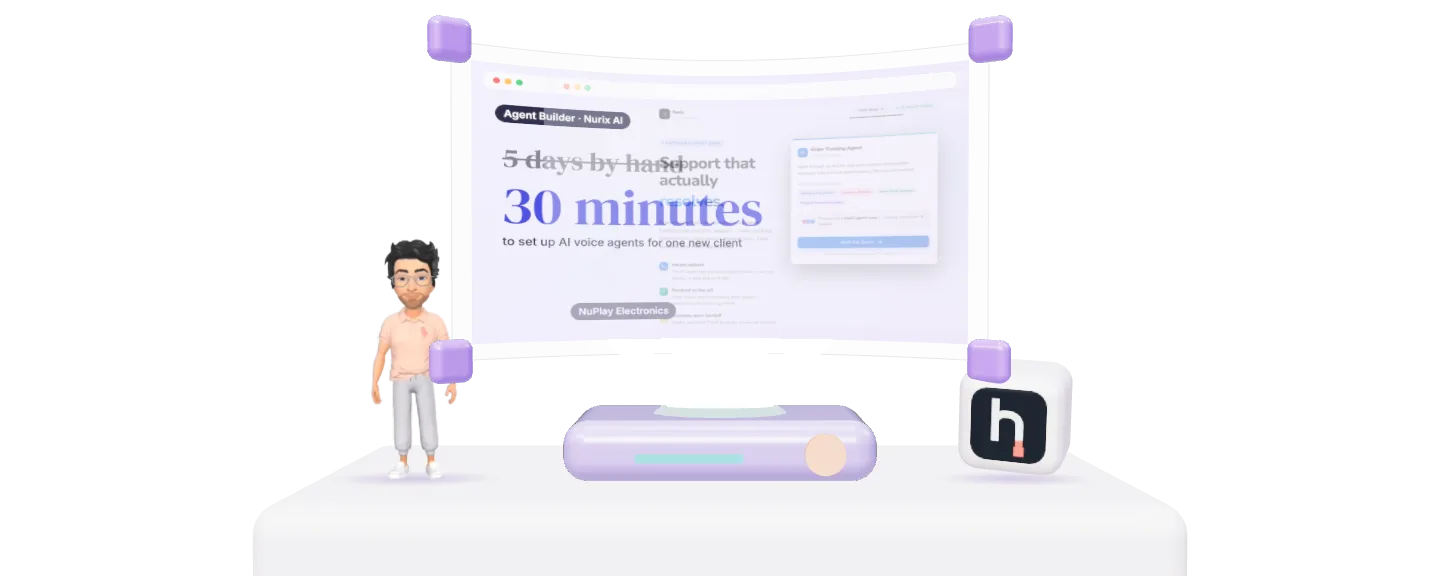
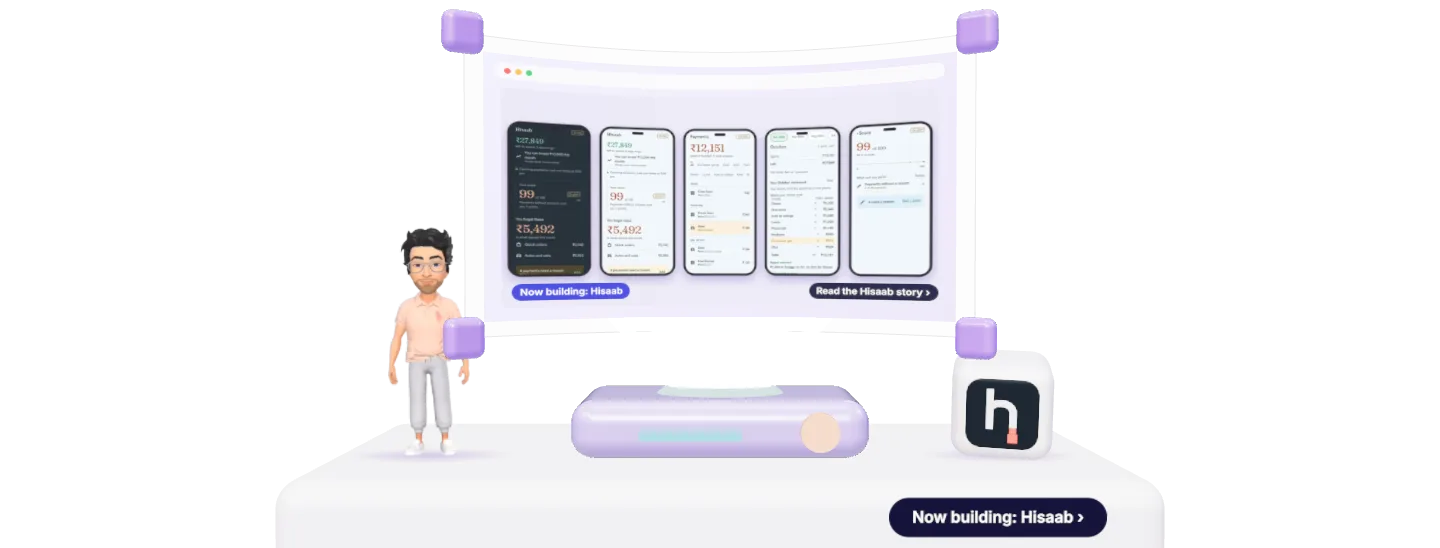
Hero: Hisaab leads, clickable h cube and tag, hover-to-pause screen, dots to pick a frame

diff --git a/src/site/hero3d.ts b/src/site/hero3d.ts
@@ -15,7 +15,7 @@ const SCREEN_H = 3.1;
 const BEND_R = 3.4; // radius of the bend: z = x^2 / 2R, so the side edges come toward the viewer
 const bendZ = (x: number) => (x * x) / (2 * BEND_R);
 
-type Frame = { href: string; draw: (c: CanvasRenderingContext2D, w: number, h: number) => void };
+type Frame = { href: string; label: string; cta: string; draw: (c: CanvasRenderingContext2D, w: number, h: number) => void };
 
 const SERIF = '"DM Serif Display", Georgia, serif';
 const SANS = '"Inter Variable", Inter, system-ui, sans-serif';
@@ -76,7 +76,7 @@ function cover(c: CanvasRenderingContext2D, img: HTMLImageElement, x: number, y:
 }
 
 function buildFrames(imgs: { hisaab: HTMLImageElement }): Frame[] {
-  const f: Frame[] = [
+  const f: Pick<Frame, 'href' | 'draw'>[] = [
     {
       href: '/work/',
       draw(c, w, h) {
@@ -193,8 +193,10 @@ function buildFrames(imgs: { hisaab: HTMLImageElement }): Frame[] {
       },
     },
   ];
-  // Hello, the app, the app's numbers, then Agent Builder and the 53 bots.
-  return [f[0], f[3], f[2], f[1], f[4]];
+  // Hisaab leads (the thing being built now), then Agent Builder, the 53 bots, and the greeting last.
+  const meta: [string, string][] = [['Hello', ''], ['Agent Builder', 'Read the case study'], ['Hisaab numbers', 'Read the Hisaab story'], ['Hisaab app', 'Read the Hisaab story'], ['53 bots', 'Read the case study']];
+  const all: Frame[] = f.map((fr, i) => ({ ...fr, label: meta[i][0], cta: meta[i][1] }));
+  return [all[3], all[2], all[1], all[4], all[0]];
 }
 
 export async function startHero(host: HTMLElement, opts: { reduce: boolean }) {
@@ -352,6 +354,25 @@ export async function startHero(host: HTMLElement, opts: { reduce: boolean }) {
   cube.position.set(2.95, -1.55 + 0.62, 0.5);
   cube.rotation.set(0.1, -0.5, 0);
   stage.add(cube);
+  // "Now building: Hisaab" tag on the pedestal face, so the cube reads as the thing to click.
+  const lab = document.createElement('canvas');
+  lab.width = 720;
+  lab.height = 150;
+  const lc = lab.getContext('2d')!;
+  lc.fillStyle = '#16143a';
+  lc.beginPath();
+  lc.roundRect(0, 10, 720, 130, 65);
+  lc.fill();
+  lc.fillStyle = '#ffffff';
+  lc.font = `600 52px ${SANS}`;
+  lc.textAlign = 'center';
+  lc.textBaseline = 'middle';
+  lc.fillText('Now building: Hisaab ›', 360, 76);
+  const labTex = new CanvasTexture(lab);
+  labTex.colorSpace = SRGBColorSpace;
+  const labelMesh = new Mesh(new PlaneGeometry(2.0, 2.0 * (150 / 720)), new MeshBasicMaterial({ map: labTex, transparent: true, toneMapped: false, depthWrite: false }));
+  labelMesh.position.set(2.55, -1.85, 1.86);
+  stage.add(labelMesh);
 
   // Screen content
   const frames = buildFrames({ hisaab });
@@ -364,13 +385,21 @@ export async function startHero(host: HTMLElement, opts: { reduce: boolean }) {
   off.width = tex.width;
   off.height = tex.height;
   const octx = off.getContext('2d')!;
+  const drawFrame = (c: CanvasRenderingContext2D, i: number) => {
+    const fr = frames[i];
+    fr.draw(c, tex.width, tex.height);
+    if (fr.cta) {
+      c.font = `600 26px ${SANS}`;
+      const tw = c.measureText(`${fr.cta} ›`).width + 40;
+      chip(c, `${fr.cta} ›`, tex.width - 40 - tw, tex.height - 104, '#16143a');
+    }
+  };
   const paint = (p: number) => {
-    // p in [0,1]: slide the next frame in from the right over the current one
     ctx.clearRect(0, 0, tex.width, tex.height);
-    frames[cur].draw(ctx, tex.width, tex.height);
+    drawFrame(ctx, cur);
     if (nxt >= 0) {
       octx.clearRect(0, 0, off.width, off.height);
-      frames[nxt].draw(octx, off.width, off.height);
+      drawFrame(octx, nxt);
       // Pure crossfade, held back at both ends so the two frames' text never sits half-visible for long.
       const e = Math.min(1, Math.max(0, (p - 0.2) / 0.6));
       ctx.save();
@@ -412,18 +441,61 @@ export async function startHero(host: HTMLElement, opts: { reduce: boolean }) {
   const hero = host.closest<HTMLElement>('.hero') ?? host;
   hero.addEventListener('pointermove', (e) => { if (on) { setPointer(e); loop(); } });
   hero.addEventListener('pointerleave', () => { tx = ty = 0; if (on) loop(); });
-  host.addEventListener('click', (e) => {
+  // What is under the pointer: the Hisaab cube (and its tag), the screen, or nothing.
+  type Hit = 'cube' | 'screen' | null;
+  let hover: Hit = null;
+  let cubeS = 1, spin = 0;
+  const pick = (e: PointerEvent | MouseEvent): Hit => {
     const r = host.getBoundingClientRect();
     ndc.set(((e.clientX - r.left) / r.width) * 2 - 1, -(((e.clientY - r.top) / r.height) * 2 - 1));
     ray.setFromCamera(ndc, camera);
-    if ((e as PointerEvent).pointerType === 'mouse' && ray.intersectObject(glass).length) location.href = frames[cur].href;
-  });
+    if (ray.intersectObjects([cube, labelMesh]).length) return 'cube';
+    if (ray.intersectObject(glass).length) return 'screen';
+    return null;
+  };
   host.addEventListener('pointermove', (e) => {
-    const r = host.getBoundingClientRect();
-    ndc.set(((e.clientX - r.left) / r.width) * 2 - 1, -(((e.clientY - r.top) / r.height) * 2 - 1));
-    ray.setFromCamera(ndc, camera);
-    host.style.cursor = ray.intersectObject(glass).length ? 'pointer' : '';
+    const h = pick(e);
+    if (hover === 'screen' && h !== 'screen') lastSwap = performance.now();
+    hover = h;
+    host.style.cursor = h ? 'pointer' : '';
+    loop();
   });
+  host.addEventListener('pointerleave', () => {
+    if (hover === 'screen') lastSwap = performance.now();
+    hover = null;
+    host.style.cursor = '';
+  });
+  host.addEventListener('click', (e) => {
+    const h = pick(e);
+    if (h === 'cube') location.href = '/work/hisaab/';
+    else if (h === 'screen' && (e as PointerEvent).pointerType === 'mouse') location.href = frames[cur].href;
+  });
+
+  // Dots under the scene: pick what the screen shows. Real buttons, so keyboards and screen readers get them too.
+  const dots = document.createElement('div');
+  dots.className = 'hero-dots';
+  dots.setAttribute('role', 'group');
+  dots.setAttribute('aria-label', 'Choose what the screen shows');
+  frames.forEach((f, i) => {
+    const b = document.createElement('button');
+    b.type = 'button';
+    b.title = f.label;
+    b.setAttribute('aria-label', f.label);
+    b.setAttribute('aria-pressed', String(i === 0));
+    b.addEventListener('click', () => goTo(i));
+    dots.append(b);
+  });
+  host.append(dots);
+  const markDots = (active: number) => [...dots.children].forEach((b, i) => b.setAttribute('aria-pressed', String(i === active)));
+  function goTo(i: number) {
+    if (nxt >= 0) { cur = nxt; nxt = -1; }
+    if (i === cur) return;
+    nxt = i;
+    tStart = performance.now();
+    lastSwap = tStart;
+    markDots(i);
+    loop();
+  }
 
   function draw(now = performance.now()) {
     const time = now / 1000;
@@ -435,12 +507,20 @@ export async function startHero(host: HTMLElement, opts: { reduce: boolean }) {
     stage.rotation.x = -cy * 0.07;
     const bob = on ? Math.sin(time * 1.2) * 0.05 : 0;
     screen.position.y = 1.25 + bob;
-    cube.position.y = -1.55 + 0.62 + (on ? Math.sin(time * 1.5 + 1) * 0.06 : 0);
-    cube.rotation.y = -0.5 + (on ? Math.sin(time * 0.7) * 0.25 : 0);
+    const hot = hover === 'cube';
+    cubeS += ((hot ? 1.16 : 1) - cubeS) * 0.14;
+    if (hot) spin += 0.045;
+    else spin += (Math.round(spin / (Math.PI * 2)) * Math.PI * 2 - spin) * 0.12;
+    cube.scale.setScalar(cubeS);
+    labelMesh.scale.setScalar(1 + (cubeS - 1) * 0.5);
+    cube.position.y = -1.55 + 0.62 * cubeS + (on ? Math.sin(time * 1.5 + 1) * 0.06 : 0);
+    cube.rotation.y = -0.5 + (on ? Math.sin(time * 0.7) * 0.25 : 0) + spin;
     // cycle the screen
-    if (on && nxt < 0 && now - lastSwap > 4200) {
+    const holding = hover === 'screen' || dots.matches(':focus-within');
+    if (on && nxt < 0 && !holding && now - lastSwap > 5200) {
       nxt = (cur + 1) % frames.length;
       tStart = now;
+      markDots(nxt);
     }
     if (nxt >= 0) {
       const p = Math.min(1, (now - tStart) / 420);
@@ -454,7 +534,8 @@ export async function startHero(host: HTMLElement, opts: { reduce: boolean }) {
     const tick = (now: number) => {
       draw(now);
       const settling = Math.abs(tx - cx) > 0.002 || Math.abs(ty - cy) > 0.002;
-      raf = on || settling || nxt >= 0 ? requestAnimationFrame(tick) : 0;
+      const popping = Math.abs(cubeS - (hover === 'cube' ? 1.16 : 1)) > 0.003 || Math.abs(spin) > 0.01;
+      raf = on || settling || popping || nxt >= 0 ? requestAnimationFrame(tick) : 0;
     };
     raf = requestAnimationFrame(tick);
   }

diff --git a/src/site/site.css b/src/site/site.css
@@ -655,3 +655,12 @@ html:not(.js) .js-only { display: none !important; }
   .hero-sub { display: none; }
   .hero-lead { margin-top: 0.5rem; }
 }
+
+/* Dots under the 3D scene: choose what the screen shows. Each button is a 44px target; the visible dot is small. */
+.hero-dots { position: absolute; z-index: 3; left: 50%; bottom: clamp(0.75rem, 2.5vh, 1.75rem); transform: translateX(-50%); display: flex; gap: 0; padding: 0.125rem 0.5rem; border-radius: 999px; background: rgba(24, 20, 112, 0.84); }
+.hero-dots button { all: unset; box-sizing: border-box; cursor: pointer; width: 2.75rem; height: 2.75rem; display: grid; place-items: center; }
+.hero-dots button::before { content: ''; width: 0.625rem; height: 0.625rem; border-radius: 999px; background: rgba(255, 255, 255, 0.55); transition: width 220ms var(--ease), background-color 220ms var(--ease); }
+.hero-dots button:hover::before { background: #ffffff; }
+.hero-dots button[aria-pressed='true']::before { width: 1.5rem; background: #ffffff; }
+.hero-dots button:focus-visible { outline: 3px solid #ffffff; outline-offset: -4px; border-radius: 999px; }
+.hero:not(.is-ready) .hero-dots, .hero.no-gl .hero-dots { display: none; }

diff --git a/src/site/pages.ts b/src/site/pages.ts
@@ -82,9 +82,9 @@ export function home() {
         <a class="btn btn-sky" href="/work/">See my work</a>
         <a class="btn btn-glass" href="${person.resume}">Download resume</a>
     </div>
-    <div class="hero-canvas" aria-hidden="true">
-      <img class="hero-poster" src="/img/hero-poster.webp" width="1440" height="576" alt="" fetchpriority="high" decoding="async" />
-      <canvas></canvas>
+    <div class="hero-canvas">
+      <img class="hero-poster" src="/img/hero-poster.webp" width="1440" height="548" alt="" fetchpriority="high" decoding="async" />
+      <canvas aria-hidden="true"></canvas>
     </div>
     <div class="hero-nav">
       <nav aria-label="On this page">
